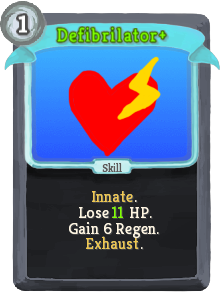
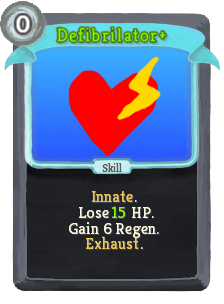
v0.2.8

Changed region(s): [[0.5312, 0.6809, 0.6875, 0.7401], [0.0312, 0.0296, 0.1562, 0.1184]]

diff --git a/index.html b/index.html
@@ -52,7 +52,7 @@
         <td><img src="card-images/AggressionPlus.png"></td>
         <td>Uncommon</td>
         <td>Power</td>
-        <td>0</td>
+        <td>2</td>
         <td>Every time you become Vulnerable, remove the effect and ALL creatures (including you) gain 2(3) Strength for this turn.</td>
       </tr>
       
@@ -153,7 +153,7 @@
         <td>Common</td>
         <td>Attack</td>
         <td>1</td>
-        <td>Deal 6(8) Silent damage, Crit: !C! %</td>
+        <td>Deal 9(12) Silent damage. Crit: !C! % Lose 1 Strength.</td>
       </tr>
       
       <tr>
@@ -243,7 +243,7 @@
         <td>Common</td>
         <td>Power</td>
         <td>1</td>
-        <td>Every time you lose Strength or Dexterity, deal 2(4) damage to ALL enemies.</td>
+        <td>Every time you lose Strength or Dexterity, deal 4(6) damage to ALL enemies.</td>
       </tr>
       
       <tr>
@@ -282,8 +282,8 @@
         <td><img src="card-images/DefibrilatorPlus.png"></td>
         <td>Uncommon</td>
         <td>Skill</td>
-        <td>1</td>
-        <td>(Innate.) Lose 14(11) HP. Gain 6 Regen. Exhaust.</td>
+        <td>0</td>
+        <td>(Innate.) Lose 18(15) HP. Gain 6 Regen. Exhaust.</td>
       </tr>
       
       <tr>
@@ -293,7 +293,7 @@
         <td>Uncommon</td>
         <td>Skill</td>
         <td>0</td>
-        <td>Gain [R] . Lose 8 HP. Deal 1(3) damage to ALL enemies.</td>
+        <td>Gain [R] ([R]). Lose 10 HP. Deal 1 damage to ALL enemies.</td>
       </tr>
       
       <tr>
@@ -422,7 +422,7 @@
         <td><img src="card-images/FragileBloodPlus.png"></td>
         <td>Uncommon</td>
         <td>Power</td>
-        <td>1</td>
+        <td>0</td>
         <td>Gain 4(5) Regen. Apply 4(5) Thorns to ALL enemies.</td>
       </tr>
       
@@ -483,7 +483,7 @@
         <td>Common</td>
         <td>Attack</td>
         <td>2</td>
-        <td>Spend 8 Gold. Deal 16(20) damage. Crit: !C! % If this deals Critical hit, Gain 40 Gold. Exhaust.</td>
+        <td>Spend 8 Gold. Deal 20(24) damage. Crit: !C! % If this deals Critical hit, Gain 40 Gold. Exhaust.</td>
       </tr>
       
       <tr>
@@ -502,8 +502,8 @@
         <td><img src="card-images/GuiltPlus.png"></td>
         <td>Uncommon</td>
         <td>Power</td>
-        <td>1</td>
-        <td>(Innate.) At the start of every turn, gain [R]. Every time you play an Attack, lose 1 Strength for one turn.</td>
+        <td>2</td>
+        <td>(Innate.) At the start of every turn, gain [R] [R] ([R]). Every time you play an Attack, lose 2(3) Strength for one turn.</td>
       </tr>
       
       <tr>
@@ -723,7 +723,7 @@
         <td>Common</td>
         <td>Attack</td>
         <td>1</td>
-        <td>Deal 6(8) damage, Crit: !C! % Draw 1 card.</td>
+        <td>Deal 5(7) damage, Crit: !C! % Draw 2 cards.</td>
       </tr>
       
       <tr>
@@ -763,7 +763,7 @@
         <td>Common</td>
         <td>Attack</td>
         <td>2</td>
-        <td>Lose 3 HP. Deal 16(20) damage. Crit: !C! % If this deals Critical hit, heal 15 HP. Exhaust.</td>
+        <td>Lose 3 HP. Deal 20(24) damage. Crit: !C! % If this deals Critical hit, heal 15 HP. Exhaust.</td>
       </tr>
       
       <tr>
@@ -883,7 +883,7 @@
         <td>Common</td>
         <td>Attack</td>
         <td>1</td>
-        <td>Deal 7(9) Silent Damage to ALL enemies. Gain 2 Weak.</td>
+        <td>Deal 8(10) Silent Damage to ALL enemies. Gain 2 Weak.</td>
       </tr>
       
       <tr>
